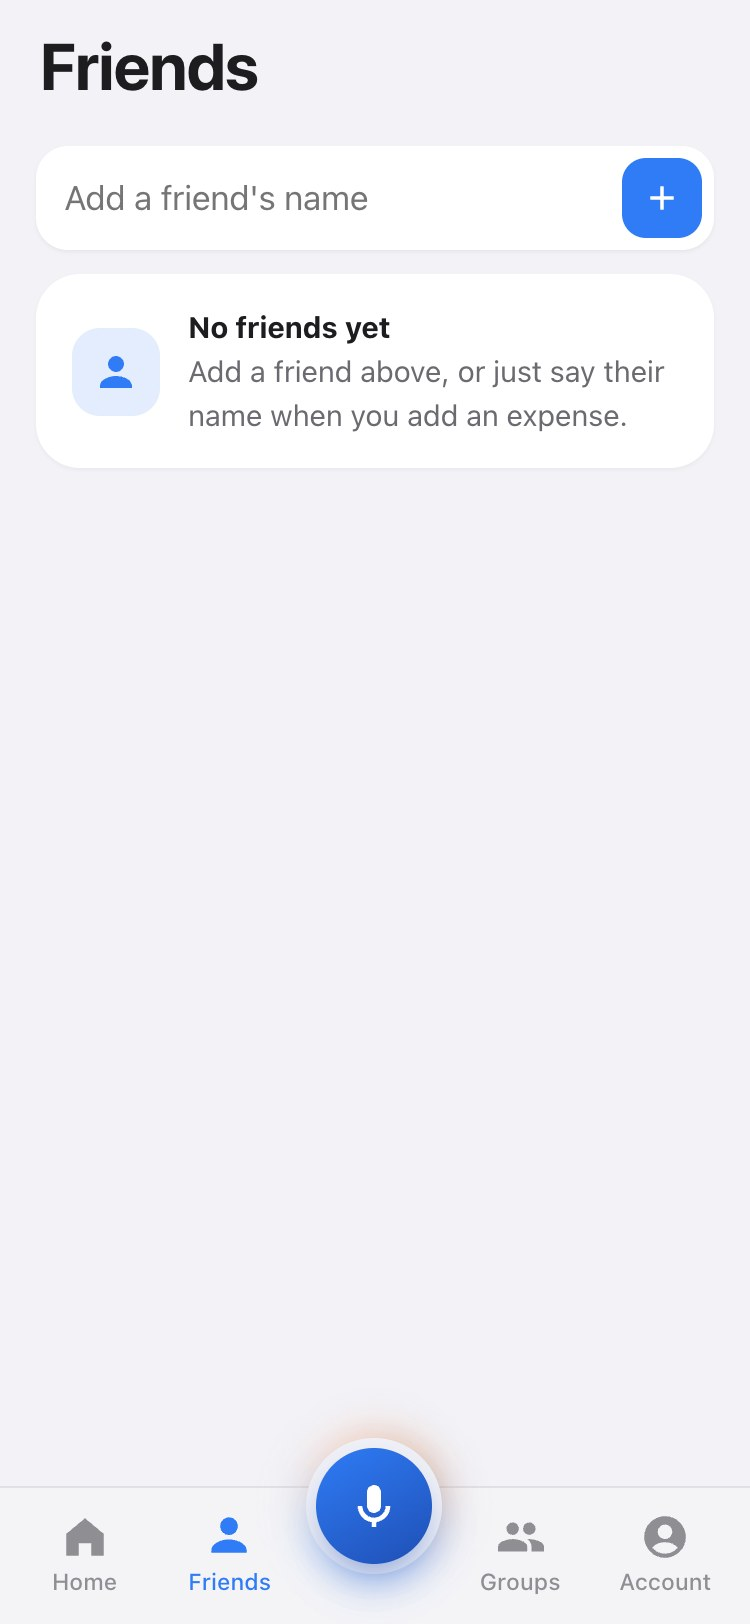
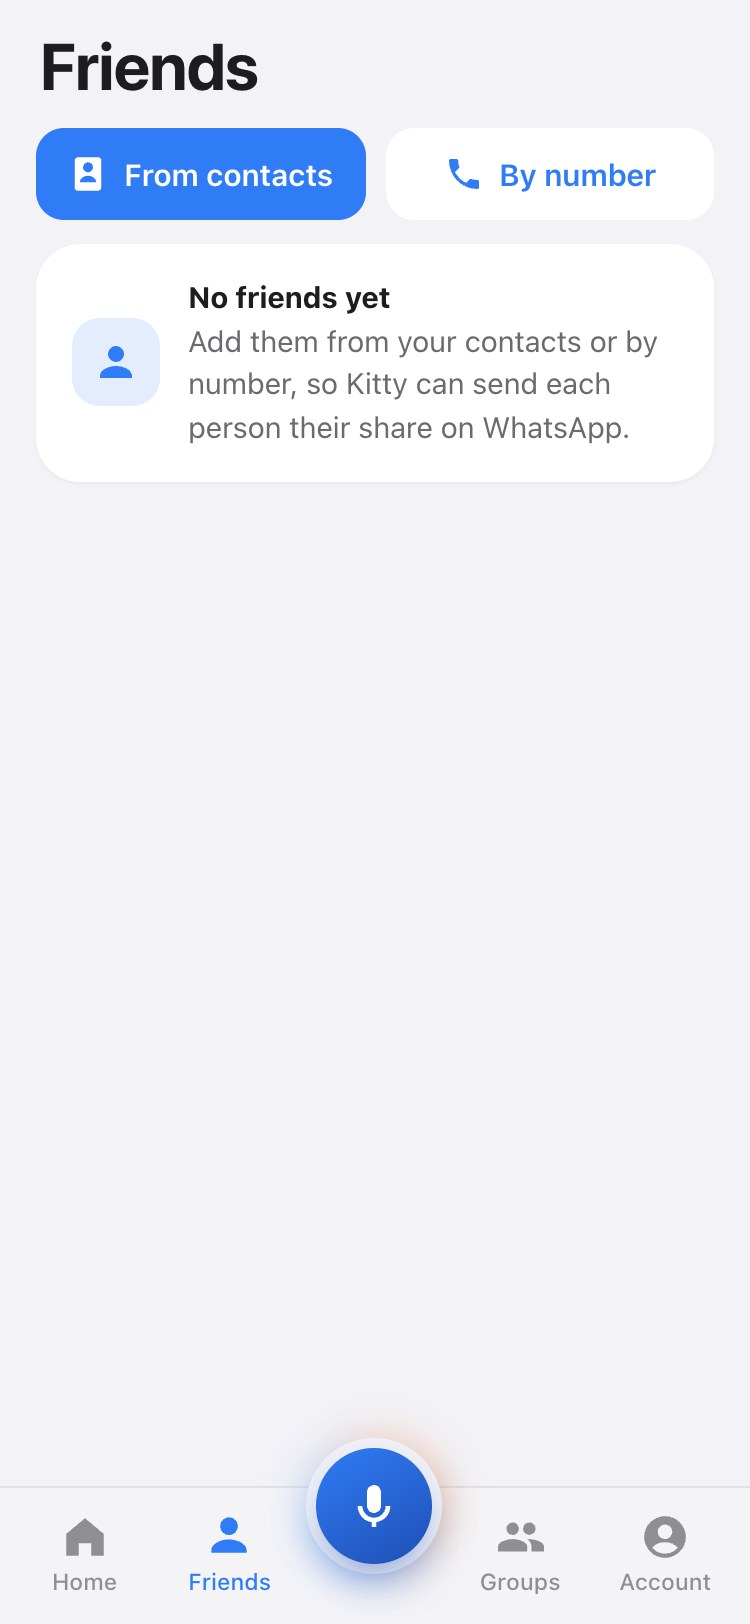
One group screen in How it works, animated Find friends, add friends from contacts or by number

diff --git a/public/index.html b/public/index.html
@@ -13,7 +13,7 @@
 <meta name="mobile-web-app-capable" content="yes">
 <meta name="apple-mobile-web-app-title" content="Kitty">
 <meta name="apple-mobile-web-app-status-bar-style" content="default">
-<link rel="stylesheet" href="/static/style.css?v=17">
+<link rel="stylesheet" href="/static/style.css?v=18">
 </head>
 <body>
 <div class="app">
@@ -70,12 +70,12 @@
         <div id="friendsChart" class="chart"></div>
         <div class="legend"><span><i class="sw-get"></i>Owes you</span><span><i class="sw-owe"></i>You owe</span></div>
       </div>
-      <form id="addFriend" class="compose inline addFriend">
-        <input id="friendName" maxlength="30" placeholder="Add a friend's name" autocomplete="off" enterkeyhint="done" aria-label="Friend's name">
-        <button type="submit" aria-label="Add friend"><svg viewBox="0 0 24 24" aria-hidden="true"><path d="M11 5h2v6h6v2h-6v6h-2v-6H5v-2h6z"/></svg></button>
-      </form>
+      <div class="addFriendBtns">
+        <button id="friendFromContacts" class="primaryBtn" type="button"><svg viewBox="0 0 24 24" aria-hidden="true"><path d="M6 2h12a2 2 0 0 1 2 2v16a2 2 0 0 1-2 2H6a2 2 0 0 1-2-2V4a2 2 0 0 1 2-2Zm6 9a3 3 0 1 0 0-6 3 3 0 0 0 0 6Zm-5 6h10c0-2.2-2.5-4-5-4s-5 1.8-5 4Z"/></svg>From contacts</button>
+        <button id="friendByNumber" class="primaryBtn ghost" type="button"><svg viewBox="0 0 24 24" aria-hidden="true"><path d="M6.6 10.8a15.2 15.2 0 0 0 6.6 6.6l2.2-2.2c.3-.3.7-.4 1-.2 1.1.4 2.3.6 3.6.6.6 0 1 .4 1 1V20c0 .6-.4 1-1 1A17 17 0 0 1 3 4c0-.6.4-1 1-1h3.5c.6 0 1 .4 1 1 0 1.3.2 2.5.6 3.6.1.3 0 .7-.2 1z"/></svg>By number</button>
+      </div>
       <ul id="friends" class="list"></ul>
-      <div id="friendsEmpty" class="emptyCard"><span class="emptyIcon" aria-hidden="true"><svg viewBox="0 0 24 24"><path d="M12 12a4 4 0 1 0 0-8 4 4 0 0 0 0 8Zm0 2c-3.3 0-8 1.7-8 5v1h16v-1c0-3.3-4.7-5-8-5Z"/></svg></span><p><b>No friends yet</b><br>Add a friend above, or just say their name when you add an expense.</p></div>
+      <div id="friendsEmpty" class="emptyCard"><span class="emptyIcon" aria-hidden="true"><svg viewBox="0 0 24 24"><path d="M12 12a4 4 0 1 0 0-8 4 4 0 0 0 0 8Zm0 2c-3.3 0-8 1.7-8 5v1h16v-1c0-3.3-4.7-5-8-5Z"/></svg></span><p><b>No friends yet</b><br>Add them from your contacts or by number, so Kitty can send each person their share on WhatsApp.</p></div>
     </section>
 
     <!-- Groups -->
@@ -267,12 +267,8 @@
   <section id="findFriends" class="intro stage" hidden role="dialog" aria-modal="true" aria-label="Find your friends">
     <div class="stageBody">
       <h2 class="slideTitle">Find your friends</h2>
-      <p class="slideText">This is how your friends show up in Kitty. Add your real friends from your contacts once you're in.</p>
+      <p class="slideText">Kitty keeps the people you split with in one list. You'll add yours from contacts or by phone number inside the app.</p>
       <ul id="sampleList" class="list findList"></ul>
-      <div class="tryCard">
-        <span class="tryLabel">Try saying</span>
-        <p id="tryText">“Dinner yesterday ₹1,500 split with Arun and Ravi”</p>
-      </div>
       <button id="howBtn" class="howBtn" type="button"><span class="playDot" aria-hidden="true"></span>How it works</button>
     </div>
     <div class="introFoot"><button id="friendsNext" class="primaryBtn" type="button">Next</button></div>
@@ -288,8 +284,27 @@
           <div class="perm"><span class="permIcon"><svg viewBox="0 0 24 24" aria-hidden="true"><path d="M6 2h12a2 2 0 0 1 2 2v16a2 2 0 0 1-2 2H6a2 2 0 0 1-2-2V4a2 2 0 0 1 2-2Zm6 9a3 3 0 1 0 0-6 3 3 0 0 0 0 6Zm-5 6h10c0-2.2-2.5-4-5-4s-5 1.8-5 4Z"/></svg></span><b>Allow Kitty to see your contacts?</b><small>Names stay on your phone</small><span class="permBtns"><i>Don't allow</i><i class="allow">Allow</i></span></div>
           <ul class="ctList"><li><span class="avatar">A</span>Arun</li><li><span class="avatar">R</span>Ravi</li><li><span class="avatar">S</span>Suresh</li><li><span class="avatar">A</span>Akash</li></ul>
         </div>
-        <!-- Step 2: make a group -->
+        <!-- Step 2: voice -->
         <div class="scene s1">
+          <span class="howMic"><svg viewBox="0 0 24 24" aria-hidden="true"><path d="M12 15a3 3 0 0 0 3-3V6a3 3 0 1 0-6 0v6a3 3 0 0 0 3 3Zm5-3a5 5 0 0 1-10 0H5a7 7 0 0 0 6 6.93V21h2v-2.07A7 7 0 0 0 19 12h-2Z"/></svg></span>
+          <div class="howWave" aria-hidden="true"><i></i><i></i><i></i><i></i><i></i><i></i><i></i><i></i><i></i></div>
+          <div class="bubble howBubble"><span class="typing" id="howTyping"></span></div>
+        </div>
+        <!-- Step 3: names appear -->
+        <div class="scene s2">
+          <div class="howHead"><b>Dinner</b><span>₹10,000</span></div>
+          <small class="howSub">Split between</small>
+          <div class="pills"><i>You</i><i>Ravi</i><i>Suresh</i><i>Akash</i><i>Arun</i></div>
+          <span class="fakeNext">Next</span>
+        </div>
+        <!-- Step 4: split and WhatsApp -->
+        <div class="scene s3">
+          <div class="howSplit"><p><span>You</span><b>₹2,000</b></p><p><span>Ravi</span><b>₹2,000</b></p><p><span>Suresh</span><b>₹2,000</b></p><p><span>Akash</span><b>₹2,000</b></p><p><span>Arun</span><b>₹2,000</b></p></div>
+          <div class="waChat"><span class="waTop"><svg viewBox="0 0 24 24" aria-hidden="true"><path d="M12 2a10 10 0 0 0-8.6 15.1L2 22l5-1.3A10 10 0 1 0 12 2Zm5.4 14.1c-.2.6-1.3 1.2-1.8 1.2-.5.1-1 .2-3.3-.7-2.8-1.1-4.5-3.9-4.7-4.1-.1-.2-1.1-1.5-1.1-2.9s.7-2 1-2.3c.2-.3.5-.3.7-.3h.5c.2 0 .4 0 .6.5l.8 2c.1.2.1.4 0 .5l-.3.5-.4.4c-.1.1-.3.3-.1.6.2.3.7 1.1 1.5 1.8 1 .9 1.9 1.2 2.2 1.3.3.1.4.1.6-.1l.8-1c.2-.3.4-.2.6-.1l1.9.9c.3.1.5.2.5.3.1.2.1.6-.1 1.2Z"/></svg>WhatsApp</span><p class="waMsg">Dinner ₹10,000 split on Kitty: ₹2,000 each. Pick a chat and send.</p></div>
+        </div>
+        <!-- Step 5: make a group, then it keeps the tally -->
+        <div class="scene s4 sGroup">
+          <div class="gMake">
           <div class="gTop"><b>Groups</b><span class="gNew">+ New group</span></div>
           <div class="gForm">
             <small>Group name</small>
@@ -298,29 +313,8 @@
             <div class="gMembers"><span class="avatar me">Y</span><span class="avatar">A</span><span class="avatar">R</span><span class="avatar">S</span><span class="avatar">A</span></div>
             <span class="gCreate">Create</span>
           </div>
-          <div class="gRow"><span class="avatar cat">G</span><span><b>Goa trip</b><small>You + 4 friends</small></span></div>
-        </div>
-        <!-- Step 3: voice -->
-        <div class="scene s2">
-          <span class="gTag">Adding to Goa trip</span>
-          <span class="howMic"><svg viewBox="0 0 24 24" aria-hidden="true"><path d="M12 15a3 3 0 0 0 3-3V6a3 3 0 1 0-6 0v6a3 3 0 0 0 3 3Zm5-3a5 5 0 0 1-10 0H5a7 7 0 0 0 6 6.93V21h2v-2.07A7 7 0 0 0 19 12h-2Z"/></svg></span>
-          <div class="howWave" aria-hidden="true"><i></i><i></i><i></i><i></i><i></i><i></i><i></i><i></i><i></i></div>
-          <div class="bubble howBubble"><span class="typing" id="howTyping"></span></div>
-        </div>
-        <!-- Step 3: names appear -->
-        <div class="scene s3">
-          <div class="howHead"><b>Dinner</b><span>₹10,000</span></div>
-          <small class="howSub">Split between</small>
-          <div class="pills"><i>You</i><i>Ravi</i><i>Suresh</i><i>Akash</i><i>Arun</i></div>
-          <span class="fakeNext">Next</span>
-        </div>
-        <!-- Step 4: split and WhatsApp -->
-        <div class="scene s4">
-          <div class="howSplit"><p><span>You</span><b>₹2,000</b></p><p><span>Ravi</span><b>₹2,000</b></p><p><span>Suresh</span><b>₹2,000</b></p><p><span>Akash</span><b>₹2,000</b></p><p><span>Arun</span><b>₹2,000</b></p></div>
-          <div class="waChat"><span class="waTop"><svg viewBox="0 0 24 24" aria-hidden="true"><path d="M12 2a10 10 0 0 0-8.6 15.1L2 22l5-1.3A10 10 0 1 0 12 2Zm5.4 14.1c-.2.6-1.3 1.2-1.8 1.2-.5.1-1 .2-3.3-.7-2.8-1.1-4.5-3.9-4.7-4.1-.1-.2-1.1-1.5-1.1-2.9s.7-2 1-2.3c.2-.3.5-.3.7-.3h.5c.2 0 .4 0 .6.5l.8 2c.1.2.1.4 0 .5l-.3.5-.4.4c-.1.1-.3.3-.1.6.2.3.7 1.1 1.5 1.8 1 .9 1.9 1.2 2.2 1.3.3.1.4.1.6-.1l.8-1c.2-.3.4-.2.6-.1l1.9.9c.3.1.5.2.5.3.1.2.1.6-.1 1.2Z"/></svg>WhatsApp</span><p class="waMsg">Dinner ₹10,000 split on Kitty: ₹2,000 each. Pick a chat and send.</p></div>
-        </div>
-        <!-- Step 6: the group keeps the tally -->
-        <div class="scene s5">
+          </div>
+          <div class="gUse">
           <div class="howHead"><b>Goa trip</b><span>₹20,000</span></div>
           <div class="tally">
             <p><span class="avatar me">Y</span><span>Dinner<small>You paid</small></span><b>₹10,000</b></p>
@@ -334,6 +328,7 @@
             <p><span>Suresh → Arun</span><b>₹2,000</b></p>
             <p><span>Ravi → Arun</span><b>₹2,000</b></p>
             <span class="remindChip"><svg viewBox="0 0 24 24" aria-hidden="true"><path d="M12 2a10 10 0 0 0-8.6 15.1L2 22l5-1.3A10 10 0 1 0 12 2Zm5.4 14.1c-.2.6-1.3 1.2-1.8 1.2-.5.1-1 .2-3.3-.7-2.8-1.1-4.5-3.9-4.7-4.1-.1-.2-1.1-1.5-1.1-2.9s.7-2 1-2.3c.2-.3.5-.3.7-.3h.5c.2 0 .4 0 .6.5l.8 2c.1.2.1.4 0 .5l-.3.5-.4.4c-.1.1-.3.3-.1.6.2.3.7 1.1 1.5 1.8 1 .9 1.9 1.2 2.2 1.3.3.1.4.1.6-.1l.8-1c.2-.3.4-.2.6-.1l1.9.9c.3.1.5.2.5.3.1.2.1.6-.1 1.2Z"/></svg>Remind Akash</span>
+          </div>
           </div>
         </div>
       </div>
@@ -374,6 +369,20 @@
     </div>
   </section>
 
+  <section id="addPerson" class="sheet addPersonSheet" hidden role="dialog" aria-modal="true" aria-label="Add a friend">
+    <div class="grab" aria-hidden="true"></div>
+    <h3 class="sheetTitle">Add a friend</h3>
+    <form id="addPersonForm">
+      <label class="label">Name<input id="apName" class="field" maxlength="30" placeholder="Their name" autocomplete="off"></label>
+      <label class="label">WhatsApp number<input id="apPhone" class="field" inputmode="tel" maxlength="15" placeholder="10-digit mobile number" autocomplete="off"></label>
+      <p class="note">Saved only on this phone. Kitty uses it to open their WhatsApp chat with their share ready to send.</p>
+      <p id="apError" class="error" hidden></p>
+      <div class="actions">
+        <button id="apCancel" type="button">Cancel</button>
+        <button class="primary" type="submit">Add friend</button>
+      </div>
+    </form>
+  </section>
   <section id="remind" class="sheet remindSheet" hidden role="dialog" aria-modal="true" aria-label="Send a reminder">
     <div class="grab" aria-hidden="true"></div>
     <h3 class="sheetTitle" id="remindTitle">Remind</h3>
@@ -392,6 +401,6 @@
   <div id="toast" class="toast" role="status" hidden></div>
 </div>
 <div id="print" class="print" aria-hidden="true"></div>
-<script src="/static/app.js?v=18"></script>
+<script src="/static/app.js?v=19"></script>
 </body>
 </html>

diff --git a/public/static/app.js b/public/static/app.js
@@ -261,7 +261,7 @@ function closeCard() {
   document.body.classList.remove("sheet-open");
   setTimeout(() => { $("scrim").hidden = true; $("card").hidden = true; }, 260);
 }
-$("scrim").addEventListener("click", () => { if (!$("contactsAsk").hidden) closeContactsAsk(); else if (!$("remind").hidden) closeRemind(); else closeCard(); });
+$("scrim").addEventListener("click", () => { if (!$("addPerson").hidden) closeAddPerson(); else if (!$("contactsAsk").hidden) closeContactsAsk(); else if (!$("remind").hidden) closeRemind(); else closeCard(); });
 $("discard").addEventListener("click", closeCard);
 document.addEventListener("keydown", (e) => { if (e.key === "Escape" && draft) closeCard(); });
 
@@ -480,7 +480,7 @@ function renderFriends(friends) {
     const li = el("li", "pay");
     const amt = el("span", "amt " + (v > 0 ? "get" : v < 0 ? "owe" : "zero"));
     amt.append(el("small", null, v > 0 ? "owes you" : v < 0 ? "you owe" : "settled up"), el("strong", null, v ? rupees(Math.abs(v)) : ""));
-    li.append(who(n, groups || "Not in a group yet"), amt);
+    li.append(who(n, groups || ((state.phones || {})[n] ? "WhatsApp " + state.phones[n] : "Not in a group yet")), amt);
     if (v > 0) { owingMe++; li.append(remindLink(n, v)); }
     const used = state.groups.some((g) => g.expenses.some((e) => e.payer === n || e.participants.includes(n)));
     if (!used && (state.friends || []).includes(n)) {
@@ -578,15 +578,33 @@ $("gDelete").addEventListener("click", () => {
   if (state.current === g.id) state.current = state.groups[0].id;
   persist(); go("groups"); renderAll(); toast("Group deleted");
 });
-$("addFriend").addEventListener("submit", (e) => {
+$("friendFromContacts").addEventListener("click", () => openContactsAsk("friends"));
+$("friendByNumber").addEventListener("click", openAddPerson);
+
+// Add a friend with their WhatsApp number, so Kitty can send them their share
+function openAddPerson() {
+  $("apName").value = ""; $("apPhone").value = ""; $("apError").hidden = true;
+  $("scrim").hidden = false; $("addPerson").hidden = false;
+  requestAnimationFrame(() => document.body.classList.add("addPerson-open"));
+  setTimeout(() => $("apName").focus(), 320);
+}
+function closeAddPerson() {
+  document.body.classList.remove("addPerson-open");
+  setTimeout(() => { $("addPerson").hidden = true; if ($("card").hidden && $("remind").hidden && $("contactsAsk").hidden) $("scrim").hidden = true; }, 300);
+}
+$("apCancel").addEventListener("click", closeAddPerson);
+["apName", "apPhone"].forEach((id) => $(id).addEventListener("input", () => { $("apError").hidden = true; }));
+$("addPersonForm").addEventListener("submit", (e) => {
   e.preventDefault();
-  const raw = $("friendName").value.trim().replace(/\s+/g, " ");
-  $("friendName").value = "";
-  if (!raw) { openContactsAsk("friends"); return; }
-  const name = titleName(raw);
-  if (name.toLowerCase() === "you" || allPeople().some((p) => p.toLowerCase() === name.toLowerCase())) { toast(`${name} is already a friend`); return; }
+  const name = titleName($("apName").value);
+  const raw = $("apPhone").value.trim();
+  const bad = (msg, field) => { $("apError").textContent = msg; $("apError").hidden = false; $(field).focus(); };
+  if (!name) return bad("Add their name.", "apName");
+  if (!waNumber(raw)) return bad("Add their WhatsApp number: 10 digits, or with the country code.", "apPhone");
+  if (name.toLowerCase() === "you" || allPeople().some((p) => p.toLowerCase() === name.toLowerCase())) return bad(`${name} is already a friend.`, "apName");
   state.friends = [...(state.friends || []), name];
-  persist(); renderAll(); toast(`Added ${name}`);
+  state.phones = state.phones || {}; state.phones[name] = raw;
+  persist(); closeAddPerson(); renderAll(); toast(`Added ${name}`);
 });
 $("newGroup").addEventListener("submit", (e) => {
   e.preventDefault();
@@ -904,7 +922,7 @@ function paintDots() {
   runSayDemo(slides()[slideAt].contains($("typing")));
 }
 
-const TOUR_VERSION = 4;
+const TOUR_VERSION = 5;
 const SAY = [
   { lang: "Tanglish", text: "Petrol-ku naan 1,200 kuduthen, Arun Ravi kooda split pannu", what: "Petrol", amt: "₹1,200", split: "You, Arun, Ravi · ₹400 each" },
   { lang: "Hinglish", text: "Maine dinner ke 900 diye, Arun aur Ravi ke saath split karo", what: "Dinner", amt: "₹900", split: "You, Arun, Ravi · ₹300 each" },
@@ -986,16 +1004,16 @@ if (state.onboarded !== TOUR_VERSION || ASKED_FOR_TOUR) openIntro();
 // Sample names so a new person can try a split straight away. They're marked as samples
 // in Friends and can be removed there.
 const SAMPLE_FRIENDS = ["Arun", "Ravi", "Suresh", "Akash", "Priya"];
-let samplePicked = new Set(SAMPLE_FRIENDS);
+let sampleTimers = [];
 function paintSamples() {
-  $("sampleList").replaceChildren(...SAMPLE_FRIENDS.map((n) => {
+  sampleTimers.forEach(clearTimeout); sampleTimers = [];
+  $("sampleList").replaceChildren(...SAMPLE_FRIENDS.map((n, i) => {
     const li = el("li");
-    const on = samplePicked.has(n);
-    const b = el("button", "follow" + (on ? " on" : ""), on ? "Added" : "Add");
-    b.type = "button";
-    b.setAttribute("aria-pressed", on);
-    b.setAttribute("aria-label", (on ? "Remove " : "Add ") + n);
-    b.onclick = () => { on ? samplePicked.delete(n) : samplePicked.add(n); paintSamples(); };
+    li.style.animationDelay = `${i * 120}ms`;
+    const b = el("span", "follow", "Add");
+    b.setAttribute("aria-hidden", "true");
+    // A short demo: each one is added in turn, the way picking from contacts feels
+    sampleTimers.push(setTimeout(() => { b.textContent = "Added"; b.classList.add("on"); }, 900 + i * 380));
     li.append(who(n), b);
     return li;
   }));
@@ -1009,7 +1027,6 @@ function hideStage(id) {
   setTimeout(() => { $(id).hidden = true; }, 350);
 }
 function openFindFriends() {
-  samplePicked = new Set(SAMPLE_FRIENDS);
   paintSamples();
   showStage("findFriends");
   hideStage("intro");
@@ -1047,11 +1064,10 @@ $("howBtn").addEventListener("click", () => { showStage("how"); showHow(0); });
 // ---------- "How it works": illustrated with CSS and SVG ----------
 const HOW = [
   { title: "Allow your contacts", text: "Kitty reads your friends' names on your phone, so it knows who you mean." },
-  { title: "Make a group", text: "Make one for a trip, your flat or office lunches. Add friends once, then just say the expense." },
   { title: "Just say it", text: "Tap the mic and say the expense the way you'd tell a friend." },
   { title: "Kitty finds the people", text: "The names you said show up, ready to check. Tap Next when it looks right." },
   { title: "Split and share", text: "Kitty splits it equally and opens WhatsApp with the message ready to send." },
-  { title: "Your group keeps the tally", text: "Every expense in Goa trip adds up. Kitty works out who pays whom in the fewest payments, and you can remind anyone on WhatsApp." },
+  { title: "Groups keep the tally", text: "Make a group for a trip or your flat. Every expense adds up, and Kitty works out who pays whom in the fewest payments." },
 ];
 const HOW_SAY = "Share my expenses for last night dinner ₹10,000 with 5 people";
 let howAt = 0, howTimer = null;
@@ -1071,13 +1087,13 @@ function showHow(i) {
   t.textContent = "";
   const g = $("howGroupName");
   g.textContent = "";
-  if (i === 1) {
+  if (i === 4) {
     const chars = [..."Goa trip"];
     let n = 0;
     const type = () => { g.textContent = chars.slice(0, ++n).join(""); if (n < chars.length) howTimer = setTimeout(type, 110); };
     howTimer = setTimeout(type, 900);
   }
-  if (i === 2) {
+  if (i === 1) {
     const chars = [...HOW_SAY];
     let n = 0;
     const type = () => { t.textContent = chars.slice(0, ++n).join(""); if (n < chars.length) howTimer = setTimeout(type, 38); };
@@ -1102,7 +1118,7 @@ async function pickContacts() {
 let contactsMode = "app";
 const CONTACT_TEXT = {
   app: { title: "Now give your contacts access", body: "Kitty uses your friends' names to match who you mean when you speak. They stay on this phone: nothing from your contacts is uploaded or saved on a server.", later: "Not now", allow: "Allow contacts" },
-  friends: { title: "Add friends from your contacts", body: "Your phone opens its contact list and you choose who to add. Only the names and numbers you pick are saved, and only on this phone. Nothing from your contacts is uploaded to a server.", later: "Add manually", allow: "Choose contacts" },
+  friends: { title: "Add friends from your contacts", body: "Your phone opens its contact list and you choose who to add. Only the names and numbers you pick are saved, and only on this phone. Nothing from your contacts is uploaded to a server.", later: "Add by number", allow: "Choose contacts" },
 };
 function openContactsAsk(mode) {
   contactsMode = mode === "friends" ? "friends" : "app";
@@ -1122,7 +1138,7 @@ function closeContactsAsk() {
 const NO_PICKER = "This browser can't share contacts with Kitty. It works in Chrome on Android and in the Android app. You can still add friends by name in Friends, or just say their names.";
 $("contactsLater").addEventListener("click", () => {
   closeContactsAsk();
-  if (contactsMode === "friends") setTimeout(() => $("friendName").focus(), 320);
+  if (contactsMode === "friends") setTimeout(openAddPerson, 320);
 });
 $("contactsAllow").addEventListener("click", async () => {
   if (!canPickContacts()) {

diff --git a/public/static/style.css b/public/static/style.css
@@ -494,7 +494,6 @@ textarea.field{resize:none;line-height:1.4;font:inherit}
 .setupBody{display:flex;flex-direction:column;justify-content:safe center}
 .setupBody .form{margin-top:1.4rem;text-align:left}
 /* How it works: the group keeps the tally */
-.s5{gap:8px;padding-top:16px}
 .tally{width:100%;background:var(--card);border-radius:14px;padding:2px 10px}
 .tally p{display:flex;align-items:center;gap:8px;margin:0;padding:5px 0;border-bottom:1px solid var(--hair);font-size:.8rem;text-align:left;opacity:0}
 .tally p:last-child{border-bottom:0}
@@ -512,9 +511,32 @@ textarea.field{resize:none;line-height:1.4;font:inherit}
 .remindChip svg{width:14px;height:14px;fill:currentColor}
 .play .remindChip{animation:pop .4s 2.4s var(--ease) both}
 .phone{height:350px}
-.s5 .howHead{padding:8px 12px;font-size:.92rem}
-.s5{gap:6px;padding-top:14px}
 .tally p{padding:4px 0}
 .contactsSheet .actions{grid-template-columns:1fr 1.4fr}
 .contactsSheet .actions button{white-space:nowrap}
 .heroSplit button:disabled{cursor:default}
+
+/* Find friends: Add flips to Added */
+.follow{display:inline-block;text-align:center;transition:background .3s var(--ease),color .3s var(--ease),transform .3s var(--ease)}
+.follow.on{animation:press .4s var(--ease)}
+.follow.on::before{content:"✓ "}
+/* How it works step 5: make the group, then it keeps the tally */
+.sGroup{padding:0}
+.gMake,.gUse{position:absolute;inset:0;padding:22px 14px;display:flex;flex-direction:column;align-items:center;gap:12px}
+.gUse{gap:6px;padding-top:14px;opacity:0}
+.gUse .howHead{padding:8px 12px;font-size:.92rem}
+.play .gMake{animation:permOut .45s 4.6s var(--ease) forwards}
+.play .gUse{animation:rise .45s 4.9s var(--ease) both}
+.play .sGroup .gForm{animation:rise .4s .8s var(--ease) both}
+.play .sGroup .tally p:nth-child(1){animation-delay:5.2s}.play .sGroup .tally p:nth-child(2){animation-delay:5.6s}.play .sGroup .tally p:nth-child(3){animation-delay:6s}
+.play .sGroup .settle{animation-delay:6.6s}
+.play .sGroup .remindChip{animation-delay:7.4s}
+/* Friends tab: two ways to add */
+.addFriendBtns{display:grid;grid-template-columns:1fr 1fr;gap:10px;margin-top:4px}
+.addFriendBtns .primaryBtn{display:flex;align-items:center;justify-content:center;gap:8px;padding:12px}
+.addFriendBtns svg{width:20px;height:20px;fill:currentColor}
+.addPersonSheet{z-index:12}
+.addPerson-open .addPersonSheet{transform:none}
+.addPerson-open .scrim{opacity:1}
+.addFriendBtns{margin-bottom:12px}
+.addFriendBtns .primaryBtn{white-space:nowrap;font-size:.95rem;padding:12px 10px}

diff --git a/public/sw.js b/public/sw.js
@@ -1,5 +1,5 @@
 // Keeps the app shell available so it opens like an app. API calls always go to the network.
-const CACHE = "kitty-v21";
+const CACHE = "kitty-v22";
 const SHELL = ["/", "/static/style.css?v=13", "/static/app.js?v=14", "/manifest.webmanifest", "/icons/icon-192.png"];
 self.addEventListener("install", (e) => { e.waitUntil(caches.open(CACHE).then((c) => c.addAll(SHELL))); self.skipWaiting(); });
 self.addEventListener("activate", (e) => {

diff --git a/test-outputs/README.md b/test-outputs/README.md
@@ -30,22 +30,23 @@ The saved copy is from the held-back set (`cases_heldout.json`): 7 of 8 read cor
 
 ## Onboarding, contacts and sharing (taken by `tools/screenshots.mjs`)
 
+Order for a new user: welcome tour → Find friends → How it works → Let's set you up → app.
+
 | File | What it shows |
 |---|---|
-| 15-find-friends.jpg | After the name: five sample friends (for the tour only), the example to try, and "How it works" |
+| 15-find-friends.jpg | Five sample friends (tour only, never saved) fill in and flip from Add to ✓ Added |
 | 16-how-1-contacts.jpg | How it works 1: allowing contacts, names appear |
-| 16-how-2-group-form.jpg | How it works 2, mid-way: typing "Goa trip" and adding members |
-| 16-how-2-group.jpg | How it works 2, end: the new group in the list |
-| 16-how-3-voice.jpg | How it works 3: the mic and "Share my expenses for last night dinner ₹10,000 with 5 people" |
-| 16-how-4-names.jpg | How it works 4: five names pop in one by one, then Next |
-| 16-how-5-whatsapp.jpg | How it works 5: ₹2,000 each, WhatsApp opens with the message ready |
-| 16-how-6-tally.jpg | How it works 6: Goa trip's expenses add up, settle up in 4 payments (the app's own maths), remind on WhatsApp |
-| 09-setup.jpg (new order) | Name and UPI ID now come after How it works; names are saved with capitals ("asha kumar" → "Asha Kumar") |
+| 16-how-2-voice.jpg | How it works 2: the mic and "Share my expenses for last night dinner ₹10,000 with 5 people" |
+| 16-how-3-names.jpg | How it works 3: five names pop in one by one, then Next |
+| 16-how-4-whatsapp.jpg | How it works 4: ₹2,000 each, WhatsApp opens with the message ready |
+| 16-how-5-group-make.jpg | How it works 5, first half: making "Goa trip" and adding members |
+| 16-how-5-group-tally.jpg | How it works 5, second half on the same screen: expenses add up, settle up in 4 payments (the app's own maths) |
+| 09-setup.jpg | Name and UPI ID, after How it works; names saved with capitals ("asha kumar" → "Asha Kumar") |
 | 20-contacts-ask.jpg | Main app: "Now give your contacts access" |
 | 21-split-share.jpg | A real AI-read split (typed by the test: ₹1,500 with Arun and Ravi) with Share on WhatsApp |
-| 23-friends-add-contacts.jpg | Friends: + with nothing typed asks to add from contacts, with the privacy note |
-| 22-friends-after-tour.jpg | Friends tab after the tour: empty, the sample friends are not kept |
+| 22-friends-after-tour.jpg | Friends after the tour: empty, sample friends not kept |
+| 23-friends-add-contacts.jpg | Friends → From contacts: the privacy note first |
+| 24-friends-add-number.jpg | Friends → By number: name and WhatsApp number (dummy 99999 99999), number required |
+| 25-friends-list.jpg | The friend added with their number |
 
-Checks in the same run: no sample friends saved and the type box empty after the tour; a spoken "Meena" matched to the contact "Meena Sharma" in the browser with nothing written to storage; the share message lists each share; browsers without a contact picker get a clear note.
-
-Also checked: a stray word from silence ("E aí") doesn't open the expense sheet; no Splitwise text and no example under the mic.
+Also checked: a stray word from silence ("E aí") doesn't open the expense sheet; ₹0 balances don't open Friends; no Splitwise text and no example under the mic; a spoken "Meena" matched to the contact "Meena Sharma" in the browser with nothing written to storage.
